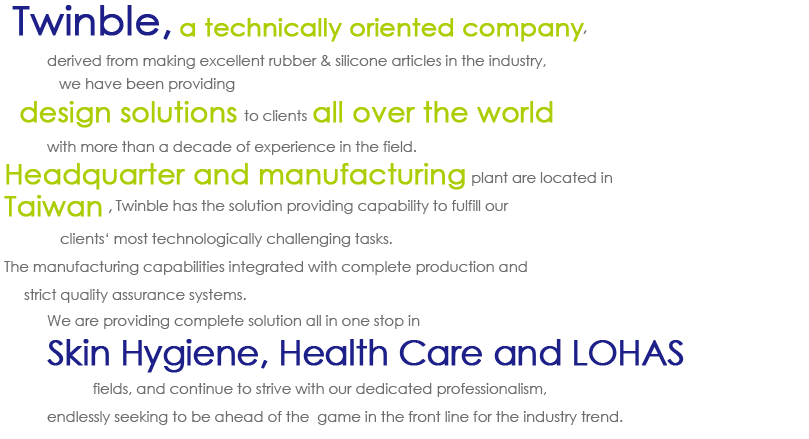
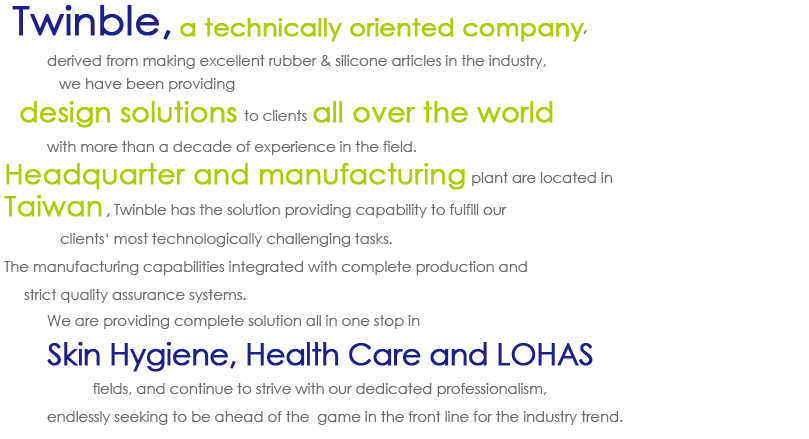
首頁標題大小+關於我們行距調整 #20160525

Changed region(s): [[0.0618, 0.7699, 0.8653, 0.8588], [0.1236, 0.4442, 0.618, 0.5034]]

diff --git a/css/xuedesign-home_201605.css b/css/xuedesign-home_201605.css
@@ -115,7 +115,7 @@ img::-moz-selection { background: transparent}
     top:15px;
     right: 40px;
     z-index: 99;
-    width: 266px;
+    width: 340px;
     height: 88px;
     background: url(../images/pic_homesubtitle.png) no-repeat}
 /*#point{
